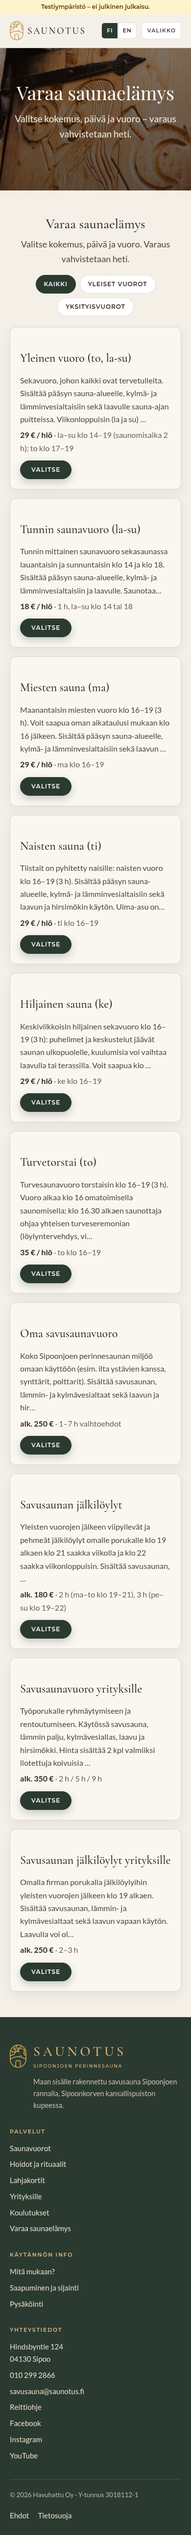
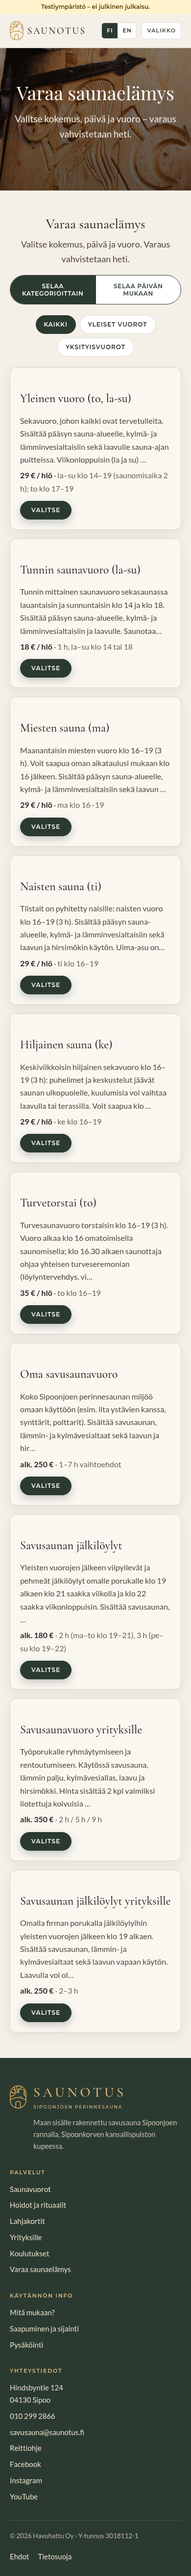
Kauppa: Selaa päivän mukaan -näkymä

diff --git a/booking/shop/src/shop.js b/booking/shop/src/shop.js
@@ -1,4 +1,4 @@
-// Varauskauppa: tuote → päivä/vuoro → henkilömäärä → yhteystiedot → vahvistus. Vanilla JS, ei riippuvuuksia, ei build-vaihetta.
+// Varauskauppa: tuote → päivä/vuoro → henkilömäärä → yhteystiedot → vahvistus. Vaihtoehtoinen selaus: päivän mukaan (#/paiva/<pvm>) → kaikki päivän vuorot. Vanilla JS, ei riippuvuuksia, ei build-vaihetta.
 // Data tulee vain julkisista RPC-funktioista (public_catalog / public_availability / public_create_booking / public_get_booking / public_change_booking).
 // Asiakas ei voi itse perua vahvistettua varausta (peruutukset sähköpostilla henkilökunnalle); hän voi MUUTTAA varausta (toinen vuoro / henkilömäärä) asetuksen mukaan vähintään 48 h ennen vuoroa.
 import { rpc } from './sb.js';
@@ -94,7 +94,108 @@ function viewList(query) {
     h('p', { class: 'bk-desc', text: (pdesc(p) || '').slice(0, 170) + ((pdesc(p) || '').length > 170 ? '…' : '') }),
     h('p', { class: 'bk-meta' }, h('strong', { text: priceText(p) }), p.duration_text ? ` · ${p.duration_text}` : ''),
     h('a', { class: 'btn sm', href: bk(`/tuote/${p.slug}`) }, t.choose, h('span', { class: 'sr', text: ' – ' + pname(p) })))));
-  mount(h('header', { class: 'bk-head' }, h('h2', { text: t.title }), h('p', { class: 'lead', text: t.lead })), tabs, cards);
+  mount(h('header', { class: 'bk-head' }, h('h2', { text: t.title }), h('p', { class: 'lead', text: t.lead })), modeSwitch('cat'), tabs, cards);
+}
+
+// ---- näkymä 1b: selaa päivän mukaan (#/paiva/<YYYY-MM-DD>) ----
+// Tiedot: public_availability(tuote, kk:n 1.–viim.) kutsutaan kaikille tuotteille rinnakkain (1 kutsu / tuote / kuukausi) ja tulokset välimuistitetaan
+// (sama välimuisti kuin tuotenäkymässä). Viikkoliuska, päivän vuorot ja "seuraava vapaa päivä" luetaan välimuistista → päivän vaihto samassa kuukaudessa ei kutsu palvelinta.
+const addDays = (ds, n) => { const d = new Date(`${ds}T12:00:00Z`); d.setUTCDate(d.getUTCDate() + n); return d.toISOString().slice(0, 10); };
+const dowMon = (ds) => (new Date(`${ds}T12:00:00Z`).getUTCDay() + 6) % 7;                 // ma = 0
+const monthOf = (ds) => { const [y, m] = ds.split('-').map(Number); return [y, m - 1]; };
+function modeSwitch(active, ds) {
+  return h('nav', { class: 'bk-modes', 'aria-label': t.modeLabel },
+    h('a', { href: bk('/'), 'aria-current': active === 'cat' ? 'page' : null, text: t.modeCat }),
+    h('a', { href: bk(`/paiva/${ds || state.lastDay || todayHel()}`), 'aria-current': active === 'day' ? 'page' : null, text: t.modeDay }));
+}
+async function ensureMonths(pairs) {   // pairs: [[y, m0], …] → kaikki tuotteet rinnakkain; epäonnistuneet tuotteet jätetään pois (ei välimuistiin)
+  const jobs = [];
+  for (const [y, m] of pairs) for (const p of state.catalog) jobs.push(loadMonth(p.id, y, m));
+  const res = await Promise.allSettled(jobs);
+  if (jobs.length && res.every((x) => x.status === 'rejected')) throw res[0].reason;
+}
+const dayRows = (ds) => {
+  const [y, m] = monthOf(ds);
+  return state.catalog.flatMap((p) => (state.months.get(`${p.id}:${y}-${m}`)?.[ds] || []).map((r) => ({ r, p })))
+    .sort((a, b) => a.r.starts_at.localeCompare(b.r.starts_at) || state.catalog.indexOf(a.p) - state.catalog.indexOf(b.p));
+};
+const freeCount = (ds) => dayRows(ds).filter((x) => x.r.status === 'available').length;
+async function findNextFree(ds, maxDs) {   // seuraava päivä, jolla on vapaita vuoroja (enintään 3 seuraavaa kuukautta, korkeintaan varausikkunan loppuun)
+  let [y, m] = monthOf(ds);
+  for (let i = 0; i < 4; i++) {
+    await ensureMonths([[y, m]]).catch(() => {});
+    const days = new Date(y, m + 1, 0).getDate();
+    for (let d = 1; d <= days; d++) {
+      const x = `${y}-${pad2(m + 1)}-${pad2(d)}`;
+      if (x > ds && x <= maxDs && freeCount(x) > 0) return x;
+    }
+    if (`${y}-${pad2(m + 1)}-31` >= maxDs) break;
+    m++; if (m > 11) { m = 0; y++; }
+  }
+  return null;
+}
+function dayItem({ r, p }, ds) {
+  const ok = r.status === 'available';
+  const title = `${hm(r.starts_at)}–${hm(r.ends_at)}`;
+  const cl = cleanLabel(r.label), sub = cl && !pname(p).toLowerCase().includes(cl.toLowerCase()) ? cl : '';   // ei toisteta tuotteen nimeä
+  const price = r.price_mode === 'per_person' ? `${money(r.unit_price)} ${t.perPerson}` : r.price_mode === 'fixed' ? money(r.base_price) : `${t.from} ${money(r.base_price)}`;
+  return h('li', { class: `bk-slot ${r.status}` },
+    h('div', { class: 'bk-slot-main' }, h('strong', { class: 'bk-time', text: title }),
+      h('span', { class: 'bk-prodname' }, h('a', { href: bk(`/tuote/${p.slug}/${ds}`), text: pname(p) })), sub ? h('span', { class: 'bk-sub', text: sub }) : null, h('span', { class: 'bk-price', text: price })),
+    h('div', { class: 'bk-slot-side' },
+      ok ? h('span', { class: 'bk-badge free', text: t.freeSpots(r.remaining) }) : h('span', { class: `bk-badge ${r.status}`, text: r.status === 'full' ? t.full : t.unavailable, title: r.status === 'unavailable' ? t.unavailableHint : null }),
+      ok ? h('a', { class: 'btn sm', href: bk(`/varaa/${r.rule_id}/${ds}/${p.id}?via=day`) }, t.choose, h('span', { class: 'sr', text: ` ${title}, ${pname(p)}` })) : null));
+}
+async function viewDay(dateStr, keep) {
+  const today = todayHel(), horizon = state.settings.booking_horizon_days || 120, maxDs = addDays(today, horizon);
+  let ds = /^\d{4}-\d\d-\d\d$/.test(dateStr || '') ? dateStr : today;
+  if (Number.isNaN(Date.parse(`${ds}T12:00:00Z`))) ds = today;
+  ds = ds < today ? today : ds > maxDs ? maxDs : ds;
+  state.lastDay = ds;
+  const ws = addDays(ds, -dowMon(ds)), we = addDays(ws, 6);
+  const pairs = [...new Map([monthOf(ds), monthOf(ws), monthOf(we)].map((x) => [x.join('-'), x])).values()];
+  await ensureMonths(pairs);
+  const rows = dayRows(ds), free = rows.filter((x) => x.r.status === 'available');
+  const go = (x) => { location.hash = `#/paiva/${x}`; };
+  const longDate = dayLong(`${ds}T12:00:00Z`);
+  const weekLabel = `${fmt(`${ws}T12:00:00Z`, { day: 'numeric', month: 'numeric' })}–${fmt(`${we}T12:00:00Z`, { day: 'numeric', month: 'numeric', year: 'numeric' })}`;
+  const strip = h('ol', { class: 'bk-strip' }, Array.from({ length: 7 }, (_, i) => {
+    const x = addDays(ws, i), inRange = x >= today && x <= maxDs;
+    const rs = inRange ? dayRows(x) : [], n = rs.filter((q) => q.r.status === 'available').length;
+    const st = !inRange ? 'off' : n ? 'free' : rs.some((q) => q.r.status === 'full') ? 'full' : rs.length ? 'unavail' : 'none';
+    const long = dayLong(`${x}T12:00:00Z`);
+    const label = st === 'free' ? `${long}, ${t.daySessions(n)}` : st === 'full' ? `${long}, ${t.full}` : st === 'unavail' ? `${long}, ${t.unavailable}` : st === 'none' ? `${long}, ${t.noSessions}` : long;
+    const inner = [h('span', { class: 'bk-sd-wd', 'aria-hidden': 'true', text: fmt(`${x}T12:00:00Z`, { weekday: 'short' }) }), h('span', { class: 'bk-sd-n', 'aria-hidden': 'true', text: String(+x.slice(8)) }), h('span', { class: `dot ${st}`, 'aria-hidden': 'true' })];
+    return h('li', {}, !inRange ? h('span', { class: 'bk-sd off', 'aria-label': long }, inner)
+      : h('a', { class: `bk-sd ${st}${x === today ? ' today' : ''}${x === ds ? ' sel' : ''}`, href: bk(`/paiva/${x}`), 'aria-label': label, 'aria-current': x === ds ? 'date' : null }, inner));
+  }));
+  const picker = h('input', { type: 'date', id: 'bk-day-pick', value: ds, min: today, max: maxDs, onchange: (e) => { if (e.target.value) go(e.target.value); } });
+  const prevOk = addDays(ws, -1) >= today, nextOk = addDays(we, 1) <= maxDs;
+  const wkBtn = (ok, target, label, ch) => (ok ? h('a', { class: 'bk-navbtn', href: bk(`/paiva/${target}`), 'aria-label': label, text: ch }) : h('span', { class: 'bk-navbtn off', 'aria-hidden': 'true', text: ch }));
+  const nav = h('div', { class: 'bk-weeknav' },
+    wkBtn(prevOk, addDays(ds, -7) < today ? today : addDays(ds, -7), t.prevWeek, '‹'),
+    h('strong', { 'aria-live': 'polite', text: weekLabel }),
+    wkBtn(nextOk, addDays(ds, 7) > maxDs ? maxDs : addDays(ds, 7), t.nextWeek, '›'));
+  const tools = h('div', { class: 'bk-daytools' },
+    h('a', { class: 'btn sm bk-today', href: bk(`/paiva/${today}`), text: t.today }),
+    h('label', { for: 'bk-day-pick', text: t.pickDay }), picker);
+  let results;
+  const heading = h('h3', { id: 'bk-day-h', text: `${t.slotsFor} – ${longDate}`, tabindex: '-1' });
+  if (!free.length) {
+    const nextDs = await findNextFree(ds, maxDs);
+    results = h('div', { class: 'bk-dayresults' }, heading,
+      h('div', { class: 'bk-notice', role: 'status' }, h('p', { text: t.noSlotsDay }),
+        nextDs ? h('p', {}, t.nextFree + ' ', h('a', { class: 'btn sm', href: bk(`/paiva/${nextDs}`), text: dayLong(`${nextDs}T12:00:00Z`) })) : h('p', { text: t.noNextFree })),
+      rows.length ? h('ul', { class: 'bk-slotlist' }, rows.map((x) => dayItem(x, ds))) : null);
+  } else {
+    const groups = ['yleinen', 'yksityinen', 'muut'].map((k) => [k, rows.filter((x) => kindOf(x.p) === k)]).filter(([, g]) => g.length);
+    results = h('div', { class: 'bk-dayresults' }, heading, groups.flatMap(([k, g]) => [h('h4', { class: 'bk-kindh', text: t['k_' + k] }), h('ul', { class: 'bk-slotlist' }, g.map((x) => dayItem(x, ds)))]));
+  }
+  mount(h('header', { class: 'bk-head' }, h('h2', { text: t.dayTitle }), h('p', { class: 'lead', text: t.dayLead })), modeSwitch('day', ds),
+    h('section', { class: 'bk-daypick', 'aria-label': t.pickDay }, nav, strip,
+      h('p', { class: 'bk-legend' }, h('span', { class: 'dot free' }), t.free, ' ', h('span', { class: 'dot full' }), t.full, ' ', h('span', { class: 'dot unavail' }), t.unavailable), tools),
+    h('div', { class: 'bk-slots', 'aria-live': 'polite' }, results));
+  if (keep) { const el = document.getElementById('bk-day-h'); if (el) el.focus({ preventScroll: true }); } else focusTop();
 }
 
 // ---- näkymä 2: tuote → kalenteri → vuorot ----
@@ -170,7 +271,7 @@ function slotItem(r, ds, p) {
 }
 
 // ---- näkymä 3: henkilömäärä + yhteystiedot ----
-async function viewCheckout(ruleId, ds, productId) {
+async function viewCheckout(ruleId, ds, productId, via) {
   // Haetaan vuoro tuotteen kuukausidatasta (tuote-id tulee linkissä; ilman sitä käydään tuotteet läpi)
   let s = null, p = null;
   const order = [...state.catalog].sort((a, b) => (b.id === +productId) - (a.id === +productId));
@@ -280,7 +381,7 @@ async function viewCheckout(ruleId, ds, productId) {
     h('div', { class: 'bk-check' }, consent, h('label', { for: 'bk-consent', text: t.consentMarketing })),
     msg, submit);
   form.addEventListener('input', () => msg.replaceChildren());   // vanha virheilmoitus pois kun käyttäjä korjaa tietoja
-  mount(h('p', {}, h('a', { href: bk(`/tuote/${p.slug}/${ds}`), text: t.back })), h('h2', { text: t.bookTitle }),
+  mount(h('p', {}, h('a', { href: via === 'day' ? bk(`/paiva/${ds}`) : bk(`/tuote/${p.slug}/${ds}`), text: t.back })), h('h2', { text: t.bookTitle }),
     h('div', { class: 'bk-checkout' }, form,
       h('aside', { class: 'bk-aside', 'aria-label': t.summary }, h('h3', { text: t.summary }), sumList,
         h('p', { class: 'bk-totalrow' }, t.total + ': ', total, ' ', h('small', { text: t.vatIncl })),
@@ -411,18 +512,19 @@ async function viewChange(token, b) {
 }
 
 // ---- reititin ----
-async function route() {
+async function route(keep = false) {
   root.setAttribute('aria-busy', 'true');
   try {
     if (S.page === 'confirm') return await viewConfirmation();
-    spinner();
+    if (!keep) spinner();
     await loadBase();
     if (state.settings.public_booking_enabled === false) { mount(h('div', { class: 'bk-notice' }, h('p', { text: t.disabled }), phoneBox())); return; }
     const [path, qs] = location.hash.slice(1).split('?');
     const parts = path.split('/').filter(Boolean);
     const q = new URLSearchParams(qs || '');
-    if (parts[0] === 'tuote' && parts[1]) await viewProduct(parts[1], /^\d{4}-\d\d-\d\d$/.test(parts[2] || '') ? parts[2] : null);
-    else if (parts[0] === 'varaa' && parts[1] && parts[2]) await viewCheckout(parts[1], parts[2], parts[3]);
+    if (parts[0] === 'paiva') await viewDay(parts[1], keep);
+    else if (parts[0] === 'tuote' && parts[1]) await viewProduct(parts[1], /^\d{4}-\d\d-\d\d$/.test(parts[2] || '') ? parts[2] : null);
+    else if (parts[0] === 'varaa' && parts[1] && parts[2]) await viewCheckout(parts[1], parts[2], parts[3], q.get('via'));
     else { viewList(q); focusTop(); }
   } catch (e) {
     console.warn('booking route error', e);
@@ -432,7 +534,10 @@ async function route() {
 let last = '';
 window.addEventListener('hashchange', () => {
   // päivän valinta kalenterissa vaihtaa hashin ilman uudelleenpiirtoa (replaceState ei laukaise tapahtumaa); muut siirtymät piirretään uudelleen
-  if (location.hash !== last) { last = location.hash; route(); window.scrollTo({ top: 0 }); }
+  if (location.hash !== last) {
+    const keep = /^#\/paiva\b/.test(last) && /^#\/paiva\b/.test(location.hash);   // päivänvaihto päivänäkymässä: ei hypätä sivun alkuun
+    last = location.hash; route(keep); if (!keep) window.scrollTo({ top: 0 });
+  }
 });
 last = location.hash;
 route();

diff --git a/booking/shop/src/shop.css b/booking/shop/src/shop.css
@@ -111,3 +111,45 @@ button.bk-cell:hover{filter:brightness(.97)}
 .bk-addon-info small{color:var(--muted)}
 .bk-addon-price{font-weight:700;color:var(--gold)}
 .bk-addon .bk-stepper input{width:64px}
+
+/* Selaa päivän mukaan (#/paiva/<pvm>) */
+.bk-modes{display:flex;max-width:520px;margin:0 auto 22px;border:1px solid var(--green);border-radius:30px;overflow:hidden;background:#fff}
+.bk-modes a{flex:1 1 0;min-width:0;text-align:center;font:600 12px/1.25 var(--label);letter-spacing:.06em;text-transform:uppercase;text-decoration:none;padding:14px 10px;min-height:48px;display:flex;align-items:center;justify-content:center;color:var(--green)}
+.bk-modes a+a{border-left:1px solid var(--green)}
+.bk-modes a[aria-current]{background:var(--green);color:#fff}
+.bk-modes a:focus-visible{outline-offset:-4px}
+.bk-daypick{background:var(--card);border:1px solid var(--line);border-radius:var(--r);padding:14px;max-width:560px;margin:0 auto 8px}
+.bk-weeknav{display:flex;align-items:center;justify-content:space-between;gap:8px;margin-bottom:10px}
+.bk-weeknav strong{font:600 18px var(--head);font-size:21px;text-align:center;min-width:0}
+.bk-navbtn{width:44px;height:44px;flex:none;border-radius:50%;border:1px solid var(--line);background:#fff;font-size:24px;line-height:1;display:flex;align-items:center;justify-content:center;color:var(--ink);text-decoration:none}
+.bk-navbtn.off{opacity:.35}
+.bk-strip{list-style:none;margin:0;padding:0;display:grid;grid-template-columns:repeat(7,minmax(0,1fr));gap:4px}
+.bk-strip li{min-width:0}
+.bk-sd{display:flex;flex-direction:column;align-items:center;justify-content:center;gap:2px;min-height:64px;border-radius:10px;border:1px solid var(--line);background:#fff;color:var(--ink);text-decoration:none;padding:4px 0}
+.bk-sd-wd{font:600 11px var(--label);text-transform:uppercase;color:var(--muted)}
+.bk-sd-n{font:600 18px var(--body)}
+.bk-sd .dot{margin:0}
+.bk-sd.free{background:#e8f3ea;border-color:#7bb28a;color:#1d4d2b}
+.bk-sd.full{background:#f3eeee;border-color:#d4b9b9;color:#7b4a4a}
+.bk-sd.unavail{background:#f1efec;color:#7a7168}
+.bk-sd.today{box-shadow:inset 0 0 0 2px var(--gold)}
+.bk-sd.sel{background:var(--green);border-color:var(--green);color:#fff}
+.bk-sd.sel .bk-sd-wd{color:#fff}
+.bk-sd.off{color:#a79d92;background:transparent;border-color:transparent}
+.bk-sd.off .dot{visibility:hidden}
+a.bk-sd:hover{filter:brightness(.97)}
+.bk-sd.none .dot{background:#fff}
+.bk-daytools{display:flex;flex-wrap:wrap;align-items:center;gap:8px 12px;margin-top:12px}
+.bk-daytools label{font-weight:700;font-size:15px}
+.bk-daytools input[type=date]{font:400 17px var(--body);padding:10px 12px;min-height:46px;border:1px solid #8b7f73;border-radius:10px;background:#fff;color:var(--ink);max-width:100%}
+.bk-daytools .btn{min-height:46px;display:inline-flex;align-items:center}
+.bk-dayresults{max-width:760px;margin:0 auto}
+.bk-dayresults .bk-slotlist{max-width:none}
+.bk-kindh{font:600 13px var(--label);text-transform:uppercase;letter-spacing:.08em;margin:22px 0 8px;color:var(--ink)}
+.bk-prodname{font-weight:700}
+.bk-prodname a{color:var(--ink);text-decoration:none;border-bottom:1px solid var(--line)}
+.bk-prodname a:hover{color:var(--gold)}
+.bk-dayresults .bk-notice p{margin:.3em 0}
+.bk-daytools .bk-today{background:#fff;color:var(--green);border:1px solid var(--green);box-shadow:none}
+.bk-daytools .bk-today:hover{background:var(--green);color:#fff}
+.bk-slot-side .btn,.bk-dayresults .btn.sm{min-height:44px;display:inline-flex;align-items:center}

diff --git a/booking/shop/src/i18n.js b/booking/shop/src/i18n.js
@@ -2,6 +2,9 @@
 export const T = {
   fi: {
     title: 'Varaa saunaelämys', lead: 'Valitse kokemus, päivä ja vuoro. Varaus vahvistetaan heti.',
+    modeLabel: 'Selaustapa', modeCat: 'Selaa kategorioittain', modeDay: 'Selaa päivän mukaan', dayTitle: 'Varaa päivän mukaan', dayLead: 'Valitse päivä ja näet kaikki sen päivän varattavat vuorot.',
+    pickDay: 'Valitse päivä', today: 'Tänään', prevWeek: 'Edellinen viikko', nextWeek: 'Seuraava viikko', daySessions: (n) => (n === 1 ? '1 vapaa vuoro' : `${n} vapaata vuoroa`), noSessions: 'ei vuoroja',
+    noSlotsDay: 'Ei vapaita vuoroja valitulle päivälle.', nextFree: 'Seuraava päivä, jolla on vapaita vuoroja:', noNextFree: 'Lähipäivinä ei ole vapaita vuoroja. Kokeile toista päivää tai selaa kategorioittain.',
     all: 'Kaikki', k_yleinen: 'Yleiset vuorot', k_yksityinen: 'Yksityisvuorot', k_muut: 'Muut',
     choose: 'Valitse', pickDate: 'Valitse päivä', pickSlot: 'Valitse vuoro', details: 'Yhteystiedot', bookTitle: 'Varauksen tiedot', back: '← Takaisin', backList: '← Kaikki tuotteet',
     from: 'alk.', perPerson: '/ hlö', persons: 'Henkilömäärä', person: 'hlö', free: 'vapaana', full: 'Täynnä', unavailable: 'Ei varattavissa',
@@ -39,6 +42,9 @@ export const T = {
   },
   en: {
     title: 'Book a sauna experience', lead: 'Choose an experience, a day and a session. Your booking is confirmed instantly.',
+    modeLabel: 'Browse mode', modeCat: 'Browse by category', modeDay: 'Browse by date', dayTitle: 'Book by date', dayLead: 'Pick a date to see all sessions you can book on that day.',
+    pickDay: 'Pick a date', today: 'Today', prevWeek: 'Previous week', nextWeek: 'Next week', daySessions: (n) => (n === 1 ? '1 session available' : `${n} sessions available`), noSessions: 'no sessions',
+    noSlotsDay: 'No available sessions for the selected date.', nextFree: 'Next day with available sessions:', noNextFree: 'No available sessions in the coming days. Try another date or browse by category.',
     all: 'All', k_yleinen: 'Public sessions', k_yksityinen: 'Private sessions', k_muut: 'Other',
     choose: 'Select', pickDate: 'Pick a date', pickSlot: 'Pick a session', details: 'Your details', bookTitle: 'Booking details', back: '← Back', backList: '← All products',
     from: 'from', perPerson: '/ person', persons: 'Guests', person: 'guests', free: 'available', full: 'Full', unavailable: 'Not available',

diff --git a/booking/README.md b/booking/README.md
@@ -18,7 +18,7 @@ Ei palvelinkoodia, ei build-vaihetta selaimen koodille, ei kirjastoriippuvuuksia
 | `supabase/functions/admin-users/` | Edge Function (Deno, `verify_jwt = true`): käyttäjien kutsu, käytöstä poisto ja aktivointi. Validointilogiikka `logic.js` + testit |
 | `dev/` | Paikallinen demo: PostgREST-konfiguraatio, kehityspalvelin (mock-auth), demo-siemen |
 | `scripts/e2e-screenshots.mjs` | Playwright-savutesti + kuvakaappaukset + konsolivirhetarkistus |
-| `scripts/e2e-shop-layout.mjs` | Kaupan varauslomakkeen asettelutesti (360/390/430/1280 px, FI+EN, yksityinen+yritys): ei vaakavieritystä, osiot samassa linjassa, järjestys ja otsikot |
+| `scripts/e2e-shop-layout.mjs` | Kaupan varauslomakkeen ja päivänäkymän (`#/paiva/<pvm>`) asettelutesti (360/390/430/1280 px, FI+EN, yksityinen+yritys; kosketuskohteet, kontrasti, näppäimistö): ei vaakavieritystä, osiot samassa linjassa, järjestys ja otsikot |
 | `docs/` | Maksurajapinta, Johku-tuonti, ristiriidat ja tulkinnat, Bottiavustuspyyntö, kuvakaappaukset |
 
 ## Arkkitehtuuri
@@ -156,6 +156,14 @@ node booking/shop/build.mjs        # → booking/shop/dist/  (koko sivusto + var
 
 Kauppa on sivuston kopio: `scripts/build.mjs` ajetaan erilliseen hakemistoon ja Johku-linkit (`*.johku.com/<kieli>/<kategoria>/<tuote>`) korvataan sisäisillä (`/varaa/#/tuote/<slug>`). Lahjakortti-, yritys- ja info-linkit jäävät toistaiseksi Johkuun (ei vielä toteutettu). Perussivuston tiedostoihin ei kosketa; `booking/shop/dist` on `.gitignore`ssa (`dist/`).
 Ajonaikainen konfiguraatio on tiedostossa `dist/booking/config.js` (voi vaihtaa ilman uudelleenrakennusta).
+
+#### Kaksi tapaa selata: kategorioittain ja päivän mukaan
+
+Kaupan etusivulla (`/varaa/`, `/en/book/`) on valinta **Selaa kategorioittain** (oletus; tuote → päivä → vuoro, reitit `#/` ja `#/tuote/<slug>/<pvm>` ennallaan) ja **Selaa päivän mukaan** (reitti `#/paiva/<YYYY-MM-DD>`, linkitettävissä):
+* Viikkoliuska (ma–su, merkkinä vapaa / täynnä / ei varattavissa, nuolet viikon vaihtoon), "Tänään"-painike ja päivävalitsin (`<input type=date>`) kuukausien välillä liikkumiseen. Menneet päivät ja varausikkunan (`booking_horizon_days`) jälkeiset päivät eivät ole valittavissa.
+* Valitun päivän **kaikki** vuorot aikajärjestyksessä ryhmiteltynä (Yleiset vuorot / Yksityisvuorot / Muut): alkamis- ja päättymisaika, tuote, vapaita paikkoja / Täynnä / Ei varattavissa (päällekkäinen yksityis-/yleisvuoro tai sulku), hinta (alk.) ja **Valitse**, joka vie samalle lomakereitille kuin tuotenäkymä (`#/varaa/<rule_id>/<pvm>/<tuote-id>`; `?via=day` palauttaa Takaisin-linkillä päivänäkymään).
+* Tyhjä päivä: "Ei vapaita vuoroja valitulle päivälle." + ehdotus seuraavasta päivästä, jolla on vapaita vuoroja (haetaan enintään 3 kuukautta eteenpäin).
+* **Haku:** ei SQL-muutoksia. `public_availability(p_product_id, p_from, p_to)` on tuotekohtainen, joten päivänäkymä kutsuu sitä kullekin kaupan tuotteelle rinnakkain koko kuukauden väliltä (1 kutsu / tuote / kuukausi; viikon yli kuukauden rajan 2 kuukautta). Tulokset välimuistitetaan (`state.months`, sama kuin tuotenäkymässä), joten päivän vaihto samassa kuukaudessa ei kutsu palvelinta. Jos tuotteita tulee paljon, kannattaa lisätä migraatio (Bottiavustus), jossa on `public_availability_all(p_from date, p_to date)` (kaikki tuotteet yhdellä kutsulla); frontend vaihtuisi yhteen kutsuun muuttamalla vain `ensureMonths`-funktiota.
 
 ### Hallinta
 
